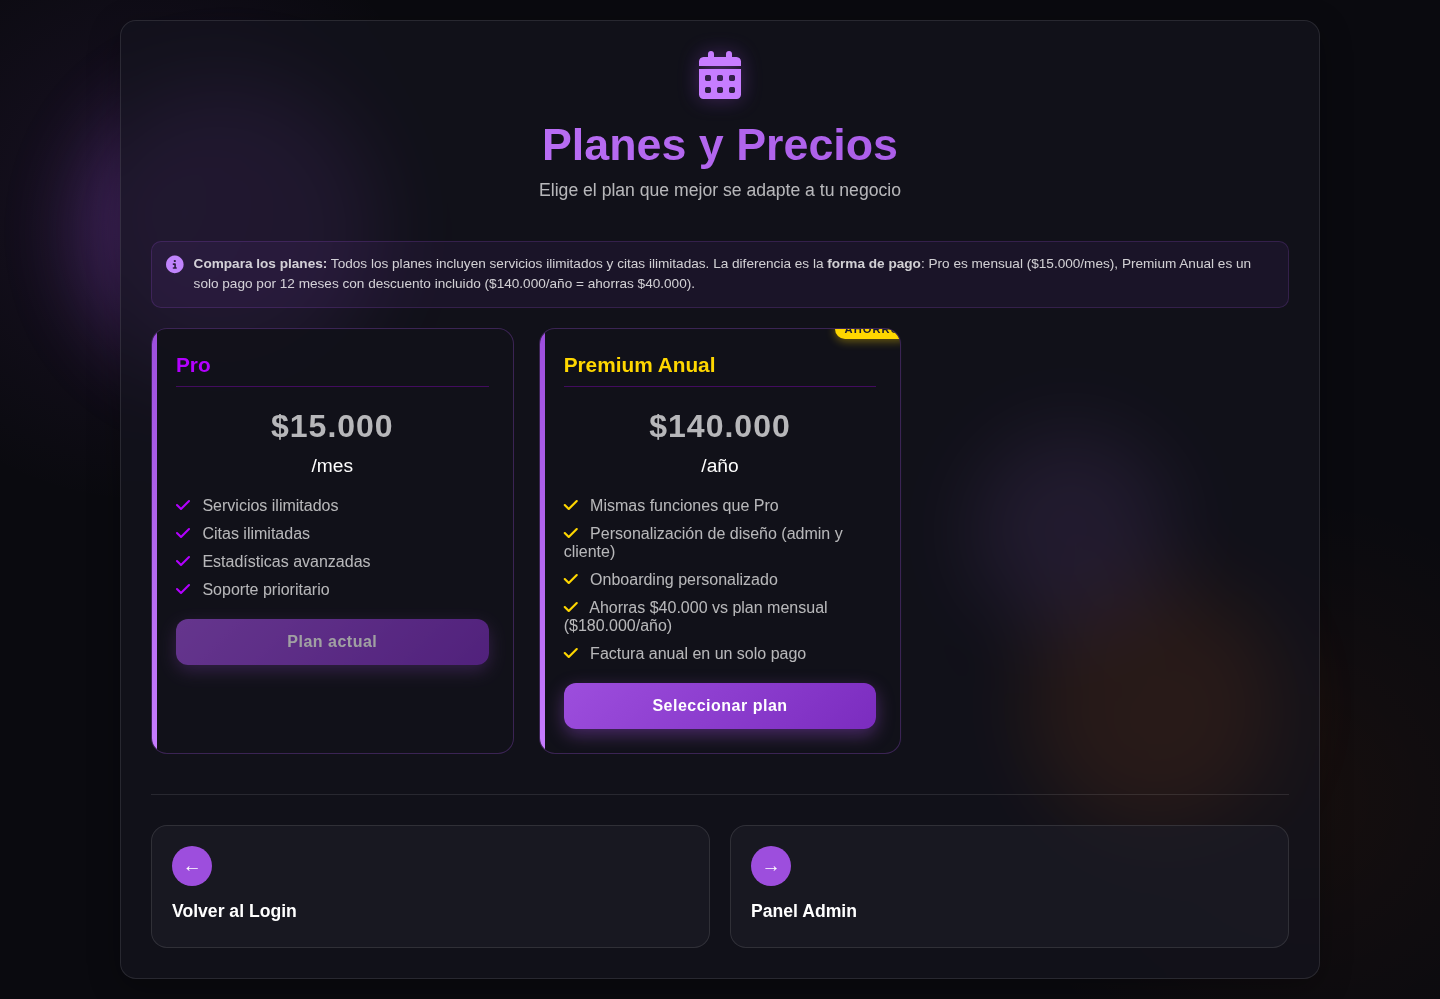
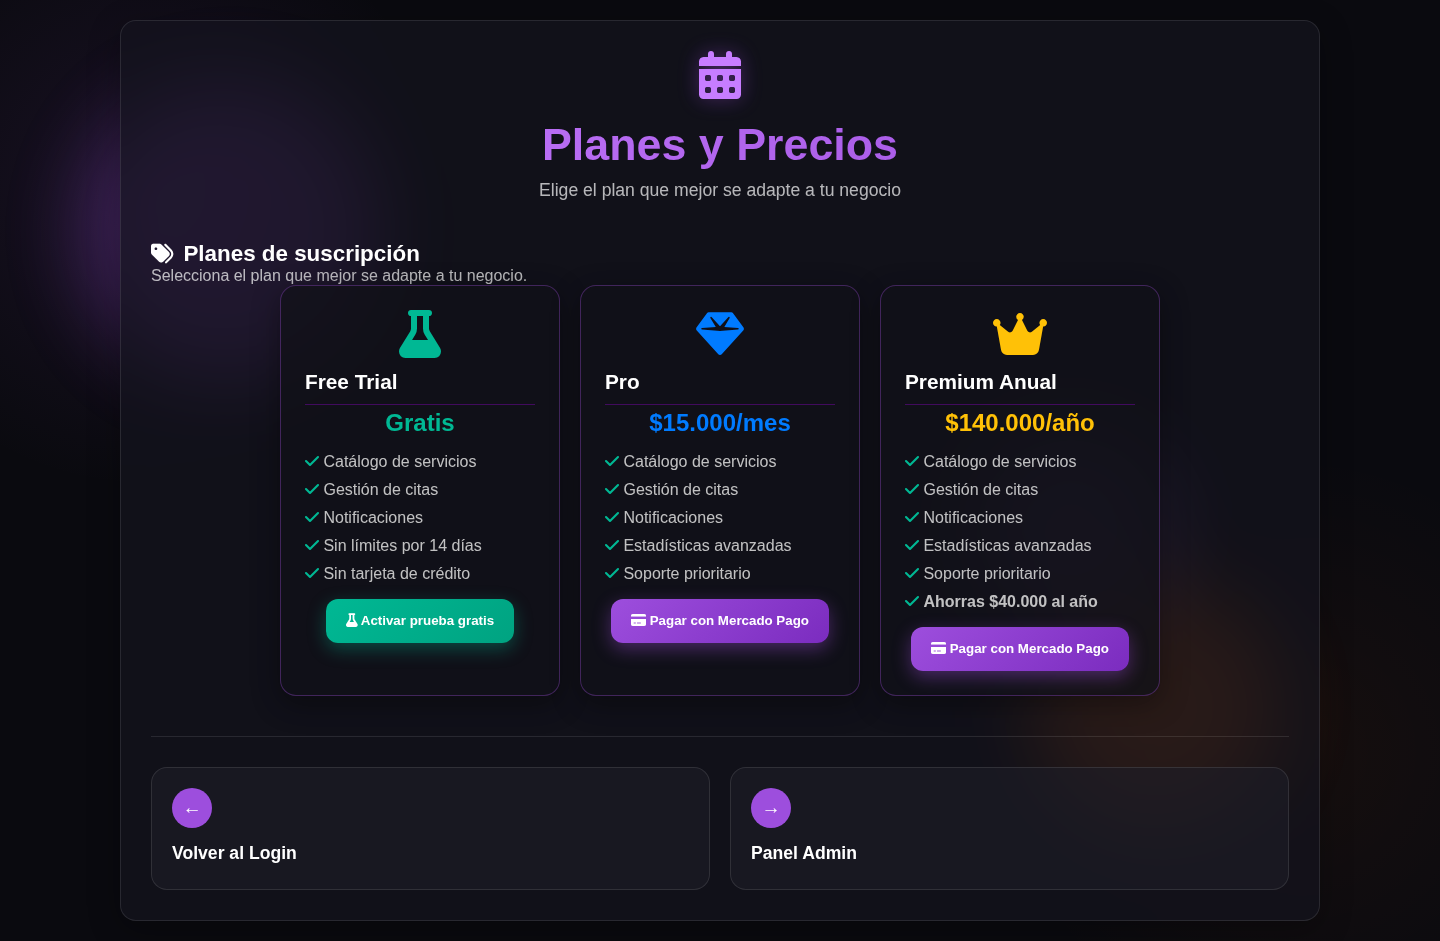
suscripcion: elimina tarjeta redundante 'Ver Planes' (duplicaba 'Cambiar plan' → planes.html); SW v18

diff --git a/admin.html b/admin.html
@@ -999,16 +999,6 @@
                             </div>
                         </div>
                         <p class="field-hint" style="margin-top:-10px;margin-bottom:14px;">Al cancelar, tu plan pasará a inactivo pero tus datos se conservan. Puedes reactivar tu suscripción en cualquier momento desde "Cambiar plan".</p>
-
-                        <div class="screen-navigation" style="margin-top:20px;">
-                            <div class="nav-cards">
-                                <a href="planes.html" class="nav-card">
-                                    <div class="nav-number"><i class="fas fa-exchange-alt"></i></div>
-                                    <h4>Ver Planes</h4>
-                                    <p>Compara todos los planes disponibles y elige el que mejor se adapte a tu negocio</p>
-                                </a>
-                            </div>
-                        </div>
                     </div>
                 </div>
             </div>

diff --git a/sw.js b/sw.js
@@ -2,7 +2,7 @@
 // Estrategia: Cache First para assets estáticos, Network Only para API.
 // Se activa solo en visitas repetidas (no cambia la primera carga).
 
-const CACHE_NAME = 'agendapro-v17';
+const CACHE_NAME = 'agendapro-v18';
 const STATIC_ASSETS = [
     '/dist/style.css',
     '/admin.html',
